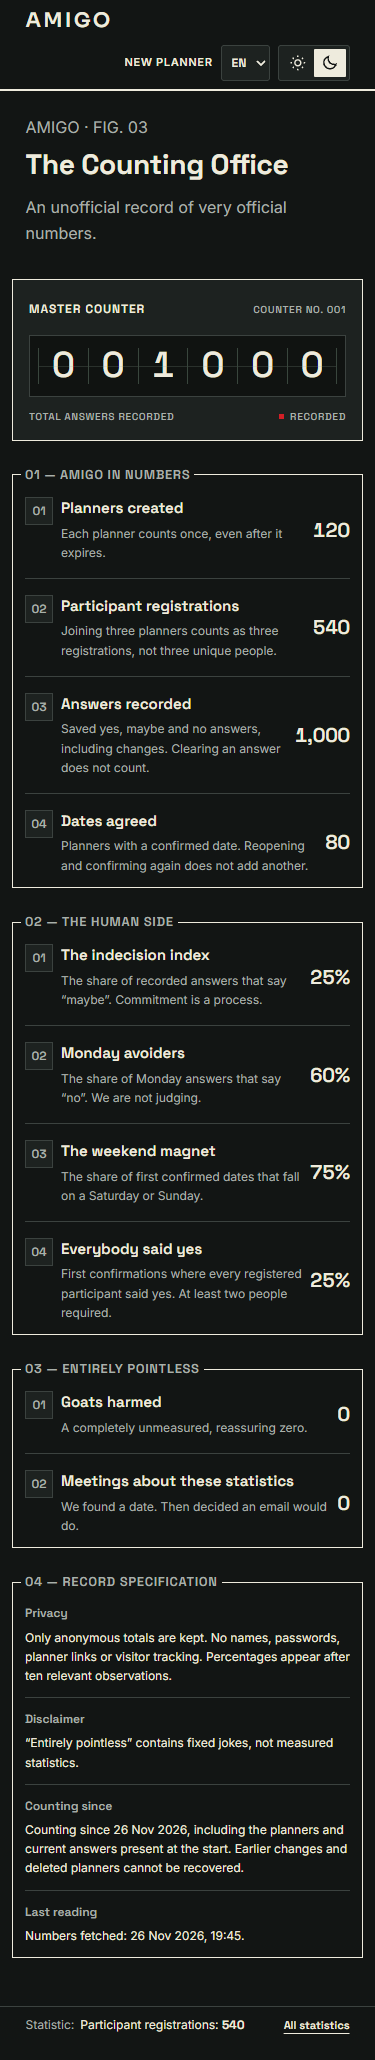
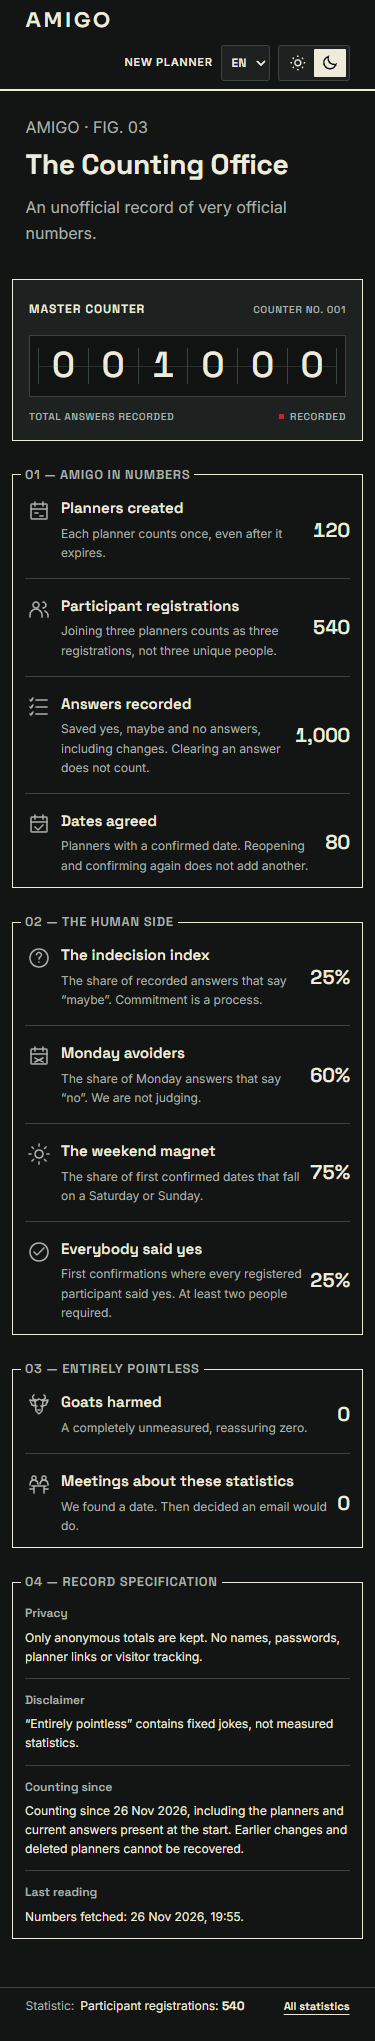
Statistics overhaul 3

diff --git a/src/styles/statistics.css b/src/styles/statistics.css
@@ -7,17 +7,15 @@
 .counting-office .statistic-card:first-child { padding-top: 0; }
 .counting-office .statistic-card:last-child { padding-bottom: 0; border-bottom: 0; }
 .counting-office .statistic-card dt { grid-column: 2; grid-row: 1; align-self: end; font: 600 15px/1.5 var(--font-display); overflow-wrap: anywhere; }
-.counting-office .office-record-number { position: absolute; inset-inline-start: 0; top: 16px; display: flex; align-items: center; justify-content: center; width: 36px; height: 36px; border: 1px solid var(--border); background: var(--surface); color: var(--muted); font: 600 12px var(--font-display); }
-.counting-office .statistic-card:first-child .office-record-number { top: 0; }
+.counting-office .office-statistic-icon { position: absolute; inset-inline-start: 0; top: 16px; display: flex; align-items: center; justify-content: center; width: 36px; height: 36px; color: var(--muted); }
+.counting-office .office-statistic-icon svg { width: 24px; height: 24px; }
+.counting-office .statistic-card:first-child .office-statistic-icon { top: 0; }
 .counting-office .statistic-card__value { grid-column: 3; grid-row: 1 / span 2; align-self: center; min-width: 0; max-width: 180px; margin: 0; font: 600 clamp(20px, 4vw, 28px)/1.2 var(--font-display); text-align: end; font-variant-numeric: tabular-nums; overflow-wrap: anywhere; }
 .counting-office .statistic-card__description { grid-column: 2; grid-row: 2; margin: 0; color: var(--muted); font-size: 12px; line-height: 1.6; overflow-wrap: anywhere; }
 .counting-office .office-card-instrument { grid-column: 2 / -1; margin: 8px 0 0; }
 .counting-office .office-measurement { color: var(--muted); font-size: 12px; }
 .counting-office .office-collection { max-width: 320px; }
-.counting-office .office-collection__label { display: block; margin-bottom: 6px; }
-.counting-office .office-progress { display: grid; grid-template-columns: repeat(10, minmax(0, 1fr)); gap: 3px; margin-bottom: 4px; }
-.counting-office .office-progress span { height: 6px; border: 1px solid var(--border); }
-.counting-office .office-progress .is-filled { background: var(--ink); border-color: var(--ink); }
+.counting-office .office-collection__label { display: block; }
 .counting-office .office-nameplate dl { margin: 0; }
 .counting-office .office-nameplate dl > div { display: grid; grid-template-columns: 100px minmax(0, 1fr); gap: 12px; padding-block: 12px; border-bottom: 1px solid var(--border); }
 .counting-office .office-nameplate dl > div:first-child { padding-top: 0; }
@@ -30,7 +28,7 @@
 @media (max-width: 600px) {
   .counting-office .office-nameplate dl > div { grid-template-columns: minmax(0, 1fr); gap: 4px; }
   .counting-office .statistic-card { grid-template-columns: 28px minmax(0, 1fr) auto; gap: 4px 8px; }
-  .counting-office .office-record-number { width: 28px; height: 28px; }
+  .counting-office .office-statistic-icon { width: 28px; height: 28px; }
   .counting-office .statistic-card__value { max-width: 90px; }
 }
 .counting-office .office-master { margin-top: 32px; padding: 20px 16px 16px; border: 1px solid var(--ink); background: var(--surface); }

diff --git a/src/components/StatisticIcon.jsx b/src/components/StatisticIcon.jsx
@@ -1,0 +1,22 @@
+import React from 'react';
+
+const icons = {
+  planners: <><rect x="4" y="5" width="16" height="15" rx="1" /><path d="M8 3v4m8-4v4M4 10h16m-12 4h3m2 3h3" /></>,
+  registrations: <><circle cx="9" cy="8" r="3" /><path d="M3 20v-2a6 6 0 0 1 12 0v2M16 5a3 3 0 0 1 0 6m2 3a5 5 0 0 1 3 4v2" /></>,
+  answers: <><path d="M9 5h11M9 12h11M9 19h11M3 5l1 1 2-3m-3 9 1 1 2-3m-3 9 1 1 2-3" /></>,
+  finalizedPlanners: <><rect x="4" y="5" width="16" height="15" rx="1" /><path d="M8 3v4m8-4v4M4 10h16m-12 5 3 3 5-5" /></>,
+  doubt: <><circle cx="12" cy="12" r="9" /><path d="M9.5 9a2.5 2.5 0 0 1 5 0c0 2-2.5 2-2.5 4m0 3v.1" /></>,
+  monday: <><rect x="4" y="5" width="16" height="15" rx="1" /><path d="M8 3v4m8-4v4M4 10h16m-12 4 8 4m0-4-8 4" /></>,
+  weekend: <><circle cx="12" cy="12" r="4" /><path d="M12 2v2m0 16v2M2 12h2m16 0h2M5 5l1.5 1.5m11 11L19 19M5 19l1.5-1.5m11-11L19 5" /></>,
+  agreement: <><circle cx="12" cy="12" r="9" /><path d="m7 12 3 3 7-7" /></>,
+  goats: <><path d="M9 7C5 7 5 3 7 2m8 5c4 0 4-4 2-5M8 8 3 7l2 5 3 1m8-5 5-1-2 5-3 1M8 8l1 10 3 3 3-3 1-10-4-2-4 2Zm2 5h.1m3.8 0h.1M11 17h2" /></>,
+  meetings: <><circle cx="7" cy="6" r="2" /><circle cx="17" cy="6" r="2" /><path d="M3 13v-1a4 4 0 0 1 8 0m2 0a4 4 0 0 1 8 0v1M5 14h14M7 14v7m10-7v7M3 17h3m12 0h3" /></>,
+};
+
+export default function StatisticIcon({ id }) {
+  return <span className="office-statistic-icon" aria-hidden="true">
+    <svg viewBox="0 0 24 24" fill="none" stroke="currentColor" strokeWidth="1.6" strokeLinecap="round" strokeLinejoin="round" data-statistic-icon={id}>
+      {icons[id]}
+    </svg>
+  </span>;
+}

diff --git a/src/components/StatisticsPage.jsx b/src/components/StatisticsPage.jsx
@@ -3,18 +3,19 @@ import { getLocale, t } from '../i18n/index.js';
 import { loadStatistics, useStatistics } from '../data/statistics.js';
 import { STATISTIC_TOTALS, STATISTIC_RATIOS, STATISTIC_JOKES, statisticMeasurement } from '../utils/statistics.js';
 import { MasterCounter, MeasurementStatus } from './StatisticsInstruments.jsx';
+import StatisticIcon from './StatisticIcon.jsx';
 
 function StatisticGroup({ title, number, items, data, status }) {
   return (
     <fieldset className="statistics-section">
       <legend>{number} — {title}</legend>
       <dl className="statistics-grid">
-        {items.map((id, index) => {
+        {items.map(id => {
           const measurement = statisticMeasurement(id, data, status);
           const collecting = measurement.state === 'collecting';
           const showStatus = !['measured', 'notApplicable'].includes(measurement.state);
           return <div className="statistic-card" key={id} data-statistic={id} data-state={measurement.state}>
-            <dt><span className="office-record-number" aria-hidden="true">{String(index + 1).padStart(2, '0')}</span>{t('statistics.' + id + '.label')}</dt>
+            <dt><StatisticIcon id={id} />{t('statistics.' + id + '.label')}</dt>
             <dd className={'statistic-card__value' + (collecting ? ' statistic-card__value--collecting' : '')}>
               {collecting ? <span aria-hidden="true">—</span> : measurement.value}
             </dd>

diff --git a/src/i18n/nl-BE.js b/src/i18n/nl-BE.js
@@ -12,8 +12,6 @@ export default {
   'statistics.recorded': 'Geregistreerd',
   'statistics.state.reading': 'Uitlezen',
   'statistics.state.unavailable': 'Niet beschikbaar',
-  'statistics.observationProgress': 'Verzamelde waarnemingen',
-  'statistics.observations': '{count} / {threshold} waarnemingen',
   'statistics.nameplate': 'Registerspecificatie',
   'statistics.notePrivacy': 'Privacy',
   'statistics.noteHumour': 'Voorbehoud',
@@ -44,7 +42,7 @@ export default {
   'statistics.error': 'De actuele cijfers zijn even niet beschikbaar. De grapcijfers hieronder zijn geen metingen.',
   'statistics.retry': 'Opnieuw proberen',
   'statistics.jokeNote': '“Volstrekt nutteloos” bevat vaste grappen, geen gemeten statistieken.',
-  'statistics.privacy': 'We bewaren alleen anonieme totalen. Geen namen, wachtwoorden, plannerlinks of bezoekersmeting. Percentages verschijnen vanaf tien relevante waarnemingen.',
+  'statistics.privacy': 'We bewaren alleen anonieme totalen. Geen namen, wachtwoorden, plannerlinks of bezoekersmeting.',
   'statistics.baseline': 'We tellen sinds {date}, inclusief de planners en huidige antwoorden die bij de start aanwezig waren. Eerdere wijzigingen en verwijderde planners kunnen we niet terughalen.',
   'statistics.fetchedAt': 'Cijfers opgehaald: {time}.',
   'statistics.footerLink': 'Alle statistieken',

diff --git a/src/i18n/en-GB.js b/src/i18n/en-GB.js
@@ -12,8 +12,6 @@ export default {
   'statistics.recorded': 'Recorded',
   'statistics.state.reading': 'Reading',
   'statistics.state.unavailable': 'Unavailable',
-  'statistics.observationProgress': 'Observations collected',
-  'statistics.observations': '{count} / {threshold} observations',
   'statistics.nameplate': 'Record specification',
   'statistics.notePrivacy': 'Privacy',
   'statistics.noteHumour': 'Disclaimer',
@@ -44,7 +42,7 @@ export default {
   'statistics.error': 'The live numbers are unavailable right now. The joke figures below are not measurements.',
   'statistics.retry': 'Try again',
   'statistics.jokeNote': '“Entirely pointless” contains fixed jokes, not measured statistics.',
-  'statistics.privacy': 'Only anonymous totals are kept. No names, passwords, planner links or visitor tracking. Percentages appear after ten relevant observations.',
+  'statistics.privacy': 'Only anonymous totals are kept. No names, passwords, planner links or visitor tracking.',
   'statistics.baseline': 'Counting since {date}, including the planners and current answers present at the start. Earlier changes and deleted planners cannot be recovered.',
   'statistics.fetchedAt': 'Numbers fetched: {time}.',
   'statistics.footerLink': 'All statistics',

diff --git a/src/components/StatisticsInstruments.jsx b/src/components/StatisticsInstruments.jsx
@@ -48,20 +48,12 @@ export function MasterCounter({ value, status }) {
 }
 
 export function MeasurementStatus({ measurement }) {
-  const { state, observations, threshold } = measurement;
+  const { state } = measurement;
   if (state === 'measured' || state === 'notApplicable') return null;
   return <div className="office-measurement" data-state={state}>
     {state !== 'collecting' && <span>{t('statistics.state.' + state)}</span>}
     {state === 'collecting' && <div className="office-collection">
       <span className="office-collection__label">{t('statistics.collecting')}</span>
-      <div className="office-progress" role="progressbar" aria-label={t('statistics.observationProgress')}
-        aria-valuemin={0} aria-valuemax={threshold} aria-valuenow={observations}
-        aria-valuetext={t('statistics.observations', { count: formatNumber(observations, { minimumIntegerDigits: 2 }), threshold })}>
-        {Array.from({ length: threshold }, (_, index) => <span key={index} className={index < observations ? 'is-filled' : ''} />)}
-      </div>
-      <span className="office-observations">{t('statistics.observations', {
-        count: formatNumber(observations, { minimumIntegerDigits: 2 }), threshold,
-      })}</span>
     </div>}
   </div>;
 }

diff --git a/README.md b/README.md
@@ -65,7 +65,7 @@ Gebruik de gedeelde datumfuncties en `formatNumber`, `formatCurrency` en `parseN
 
 `?page=statistics` toont anonieme totalen in dezelfde huisstijl, in EN/NL en beide thema's. De compacte footer toont “Statistiek: …” met daarnaast “Alle statistieken”, zonder pauzeknop. Bij korte pagina's staat hij onderaan het scherm; langere inhoud duwt hem naar beneden in de normale paginastroom. De footer begint met een willekeurige statistiek en wisselt elke zeven seconden met een korte schuifanimatie. Hover, toetsenbordfocus en een verborgen tabblad stoppen het wisselen. Bij verminderde beweging blijft één willekeurig cijfer staan. De volledige statistiekenpagina schuift niet automatisch.
 
-De pagina heet **AMIGO · FIG. 03 — The Counting Office** en gebruikt dezelfde achtergrond, semantische themakleuren, veldkaders en segmenttitels als de planner. Compacte rijen tonen een nummer, titel, uitleg en waarde, zoals een achievements-overzicht. Er zijn geen “Gemeten”-tags, aparte meetinstrumenten of extra achtergrondvlak. Alleen de mechanische hoofdteller behoudt zijn fysieke telvensters. Die rolt eenmaal na de eerste succesvolle uitlezing (maximaal 1,2 seconde) en toont bij verminderde beweging direct de eindstand; de gewone tekstwaarde blijft toegankelijk. Onder de bestaande drempel van tien verschijnen alleen de echte verzamelvoortgang en een ontbrekende waarde, zonder percentage. De privacy- en meetinformatie staat in segment 04. Dit herontwerp verandert geen API, database of statistiekdefinitie en vereist geen extra migratie.
+De pagina heet **AMIGO · FIG. 03 — The Counting Office** en gebruikt dezelfde achtergrond, semantische themakleuren, veldkaders en segmenttitels als de planner. Compacte rijen tonen een passend SVG-lijnicoon, titel, uitleg en waarde, zoals een achievements-overzicht. Er zijn geen genummerde tegels, emoji's, “Gemeten”-tags, aparte meetinstrumenten of extra achtergrondvlak. Alleen de mechanische hoofdteller behoudt zijn fysieke telvensters. Die rolt eenmaal na de eerste succesvolle uitlezing (maximaal 1,2 seconde) en toont bij verminderde beweging direct de eindstand; de gewone tekstwaarde blijft toegankelijk. De bestaande drempel van tien blijft intern behouden. Daaronder verschijnt alleen “Nog even verzamelen”, zonder benodigd aantal, voortgangsbalk of percentage. De privacy- en meetinformatie staat in segment 04. Dit herontwerp verandert geen API, database of statistiekdefinitie en vereist geen extra migratie.
 
 `node tests/statistics-browser.mjs --screenshots` vernieuwt de [desktopweergave in donker thema](docs/counting-office/dark-1440.png), [desktopweergave in licht thema](docs/counting-office/light-1440.png), [mobiele weergave in donker thema](docs/counting-office/dark-375.png) en [mobiele weergave in licht thema](docs/counting-office/light-375.png). Deze afbeeldingen gebruiken uitsluitend lokale testcijfers. De test controleert ook de gedeelde plannerkleuren en segmentopmaak, eenmalige telleranimatie, verminderde beweging, 9/10-waarnemingen, een exacte nulstand en grote getallen op 375 px.
 
